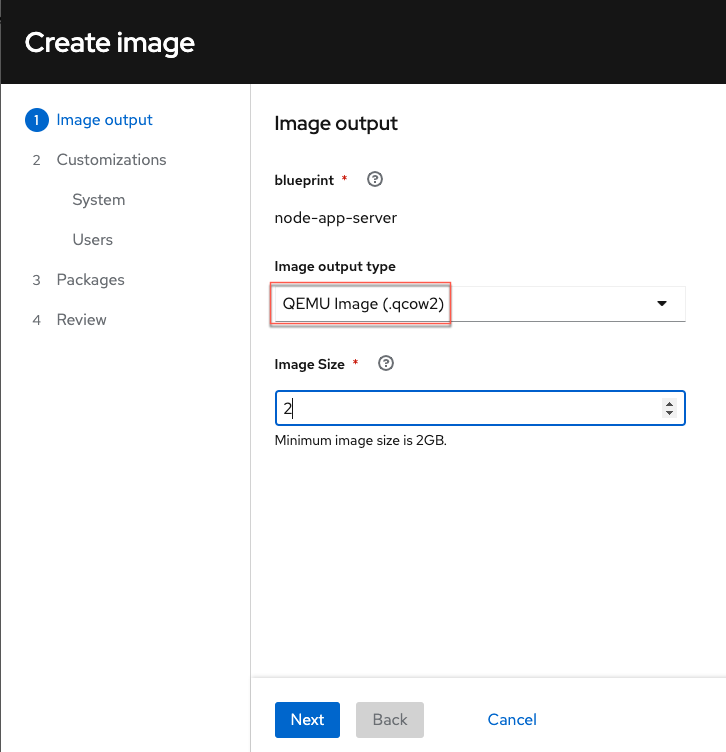
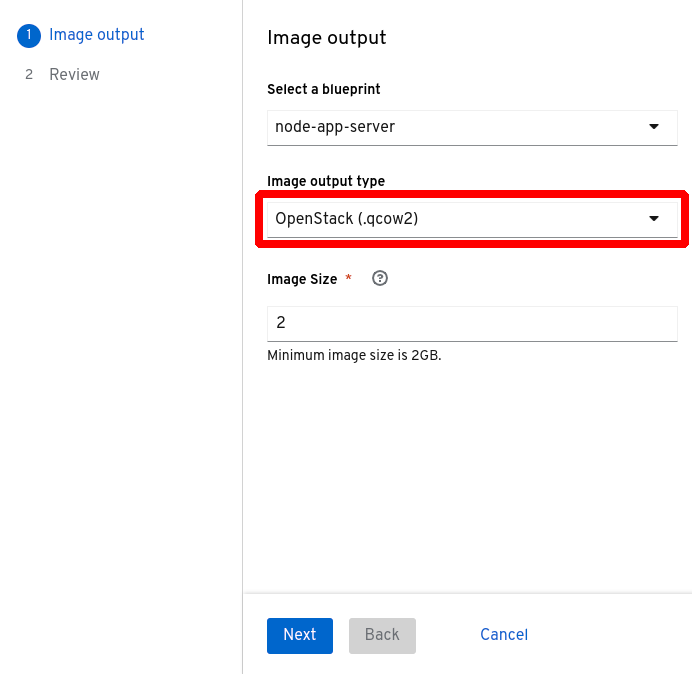
made some more updates

diff --git a/imagebuilder/04-image/assignment.md b/imagebuilder/04-image/assignment.md
@@ -34,7 +34,7 @@ output types supported by Image Builder:
 * Microsoft Azure (.vhd)
 * VMware VSphere (.vmdk)
 
-For this lab, select the *Type* as __QEMU Image (.qcow2)__ this makes a
+For this lab, select the *Type* as __OpenStack (.qcow2)__ this makes a
 virtual machine image that is compatible with the native virtualization
 provided as part of Red Hat Enterprise Linux. However, you can see from the
 list that you can make images for cloud providers or other virtualization
@@ -42,28 +42,17 @@ hypervisors.
 
 ![Selecting a format](../assets/image-create.png)
 
-Once you have specified the __QEMU Image (.qcow2)__ as the *Type* select
+Once you have specified the __OpenStack (.qcow2)__ as the *Type* select
 the *Create* button to create an image of this output format.
 
 Click `Next`.
 
-We'll enter a hostname `node-app-server` for the image.
-
-
-
-Click `Next` until you reach Packages.
-
-
-
-You can review the blueprint you've created in this menu. Click `Save blueprint`
+You can review the image you've created in this menu. Click `Create`
 
 ![save blueprint](../assets/save-image.png)
 
-Now click `Create image`.
 
-![create image](../assets/create-image-new.png)
-
-To view the progress of the image build, click on the `blueprint` name `node-app-server`.
+To view the progress of the image build, click on the `Images` tab.
 
 ![blueprint name](../assets/blueprint-name.png)
 

diff --git a/imagebuilder/02-login/assignment.md b/imagebuilder/02-login/assignment.md
@@ -64,7 +64,7 @@ After logging into the Web Console, you'll be looking at the Overview tab. Navig
 
 ![Navigate to Image Builder](../assets/Nav-ImageBuilder.png)
 
-Because you have not used Image Builder before, you will need to start the back-end service by clicking the *Start* button. Notice that the *Automatically start osbuild-composer on boot* is selected, which means the service will automatically start after this whenever the system is booted.
+Because you have not used Image Builder before, you will need to start the back-end service by clicking the *Start* button.
 
 ![Start Image Builder Service](../assets/ImageBuilder-start-service.png)
 
